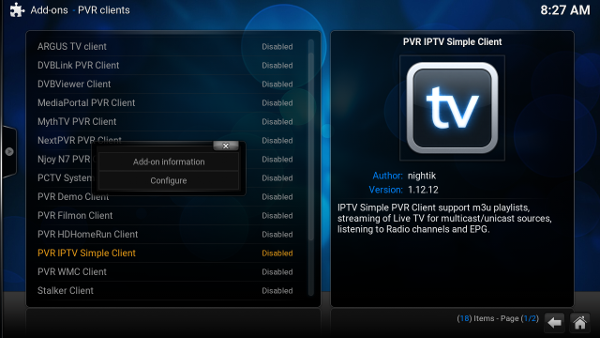
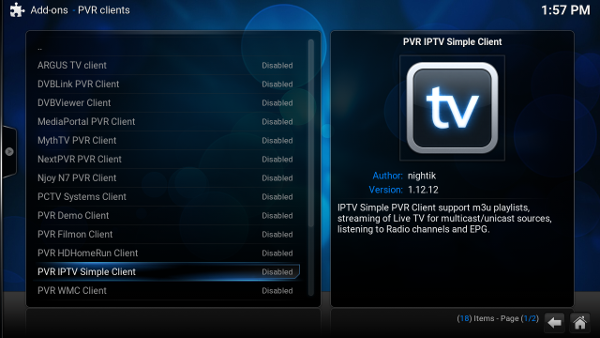
changed pictures and added content to artikel-01

diff --git a/artikel-01.html b/artikel-01.html
@@ -68,31 +68,33 @@
                     <p class="bildunterschrift"><small>KODI is a registered trademark of the XBMC Foundation. This Logo is a unregistered trademark Logo of the XBMC Foundation.<a href="https://kodi.wiki/view/Official:List_of_Foundation_Trademarks">https://kodi.wiki/view/Official:List_of_Foundation_Trademarks</a></small></p>
                     
                     <img src="images/artikel-01/screenshots/01-kodi-start.png" class="profilbild_image_normal img-responsive" alt="KODI 01 start png Datei" >
-                    <p></p>
+                    <p>Um &Auml;nderungen an KODI vor zu nehmen geht bitte auf "Settings" im Systembereich.</p>
                     <img src="images/artikel-01/screenshots/02-einstellungen-auswaehlen.png" class="profilbild_image_normal img-responsive" alt="KODI 02 Einstellungen auswählen png Datei" >
-                    <p></p>
+                    <p>W&auml;hlt dort TV aus.</p>
                     <img src="images/artikel-01/screenshots/03-tv-plugin-einschalten.png" class="profilbild_image_normal img-responsive" alt="KODI 03 TV Plugin einschalten png Datei" >
-                    <p></p>
+                    <p>Setzt TV auf "enabled".</p>
                     <img src="images/artikel-01/screenshots/04-iptv-simple-client.png" class="profilbild_image_normal img-responsive" alt="KODI 04 IPTV simple client 1 png Datei" >
-                    <p></p>
+                    <p>Danach erscheint kurz ein Hinweis, das kein Client installiert ist, und ihr findet euch im PVR Client Men&uuml; wieder.</p><p> W&auml;hlt hier bitte den "IPTV Simple Client" aus.</p>
                     <img src="images/artikel-01/screenshots/05-iptv-simple-client.png" class="profilbild_image_normal img-responsive" alt="KODI 05 IPTV simple client 2 Datei" >
-                    <p></p>
+                    <p>Geht zum "Enable" Button.</p>
                     <img src="images/artikel-01/screenshots/06-iptv-simple-client-enable.png" class="profilbild_image_normal img-responsive" alt="KODI 06 IPTV simple client aktivieren png Datei" >
-                    <p></p>
-                    <img src="images/artikel-01/screenshots/07-iptv-simple-client-general-default.png" class="profilbild_image_normal img-responsive" alt="KODI 07 IPTV simple client generelle Ansicht png Datei" >
-                    <p></p>
-                    <img src="images/artikel-01/screenshots/08-iptv-simple-client-general-mu3.png" class="profilbild_image_normal img-responsive" alt="KODI 08 IPTV simple client MU3 ausgefüllt png Datei" >
-                    <p></p>
-                    <img src="images/artikel-01/screenshots/09-iptv-simple-client-epg.png" class="profilbild_image_normal img-responsive" alt="KODI 09 IPTV simple client EPG ausgefüllt png Datei" >
-                    <p></p>
-                    <img src="images/artikel-01/screenshots/10-iptv-simple-client-logo.png" class="profilbild_image_normal img-responsive" alt="KODI 10 IPTV simple client Logos ausgefüllt png Datei" >
-                    <p></p>
+                    <p>Der "Enable" Button ist nun zu einem "Disable" Butto geworden, also ist die Installation vorgemerkt.</p>
+                    <img src="images/artikel-01/screenshots/07-iptv-simple-client-general-mu3.png" class="profilbild_image_normal img-responsive" alt="KODI 07 IPTV simple client generelle Ansicht png Datei" >
+                    <p>In dem General Reiter muss nun <a href="http://wownet.ro/iptv/" alt="Linkt zur Webseite http://wownet.ro/iptv/"> http://wownet.ro/iptv/</a> eingetragen werden.</p>
+                    <img src="images/artikel-01/screenshots/08-iptv-simple-client-epg.png" class="profilbild_image_normal img-responsive" alt="KODI 08 IPTV simple client EPG ausgefüllt png Datei" >
+                    <p>In dem EPG Reiter kann nun <a href="http://wownet.ro/epg/" alt="Linkt zur Webseite http://wownet.ro/epg/"> http://wownet.ro/epg/</a> eingetragen werden.</p>
+                    <img src="images/artikel-01/screenshots/09-iptv-simple-client-logo.png" class="profilbild_image_normal img-responsive" alt="KODI 09 IPTV simple client Logos ausgefüllt png Datei" >
+                    <p>In dem Logos Reiter kann nun <a href="http://wownet.ro/logo/" alt="Linkt zur Webseite http://wownet.ro/logo/"> http://wownet.ro/logo/</a> eingetragen werden</p>
+                    <img src="images/artikel-01/screenshots/10-iptv-simple-client-general-default.png" class="profilbild_image_normal img-responsive" alt="KODI 10 IPTV simple client ausgefüllt png Datei" >
+                    <p>Nun noch mit "OK" unten links best&auml;tigen, sonnst sind alle Angaben wieder gel&ouml;scht.</p>
                     <img src="images/artikel-01/screenshots/11-iptv-simple-client-laedt-kanaele.png" class="profilbild_image_normal img-responsive" alt="KODI 11 IPTV Client lädt Kanäle png Datei" >
-                    <p></p>
+                    <p>Nach dem einstellen am besten KODI schließen und wieder &ouml;ffnen. Hier sieht man, wie die Software die EPG Daten holt.</p>
                     <img src="images/artikel-01/screenshots/12-kodi-tv-reiter.png" class="profilbild_image_normal img-responsive" alt="KODI 12 TV Reiter im Hauptmenü png Datei" >
-                    <p></p>
-                    <img src="images/artikel-01/screenshots/13-iptv-simple-client-kanaele.png" class="profilbild_image_normal img-responsive" alt="KODI 13 IPTV Plugin im Client Betrieb png Datei" >
-                    <p></p>
+                    <p>Zum TV sehen muss nun nat&uuml;rlich entweder auf "TV", oder "Channels" geklickt werden. Der Reiter ist weiter links nach dem KODI start.</p>
+                    <img src="images/artikel-01/screenshots/13-iptv-simple-client-kanaele.png" class="profilbild_image_normal img-responsive" alt="KODI 13 IPTV Plugin im Clientbetrieb png Datei" >
+                    <p>Hier sieht man nun einen Auschnitt aus der Senderliste.</p>
+                    <img src="images/artikel-01/screenshots/14-iptv-simple-client-kanaele.png" class="profilbild_image_normal img-responsive" alt="KODI 14 IPTV Plugin im Clientbetrieb mit Bild png Datei" >
+                    <p>Hier habe ich mal auf einen Kanal gedr&uuml;ckt. Wenn man Vollbild haben m&ouml;chte reicht 2 mal der zur&uacute;ck Button.</p>
                 </div>
             </div>
             <ul class="pager">                
